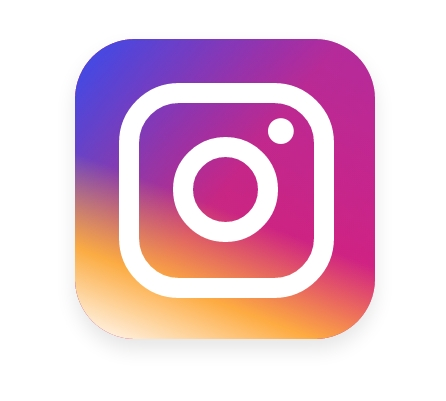
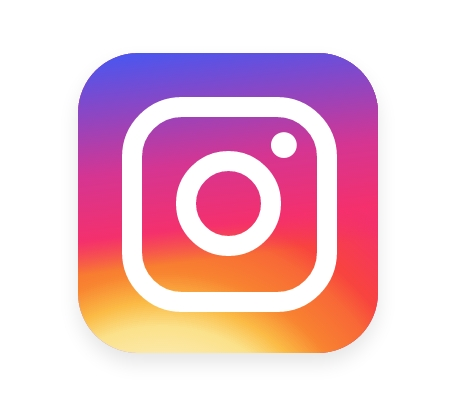
Fixes gradient

diff --git a/Designs/Instagram New Logo.html b/Designs/Instagram New Logo.html
@@ -2,6 +2,9 @@
   <head>
     <title>Instagram New Logo | Designs</title>
     <style>
+      /* 
+        Color Palette: https://dribbble.com/shots/2707735-New-Instagram-Logo-sketch
+      */
       #instagram-new{
         position: relative;
         margin: 0 auto;
@@ -9,7 +12,16 @@
         height: 300px;
         margin-top: 150px;
         border-radius: 60px;
-        background: linear-gradient(201deg, rgba(254, 116, 45, 0.05)55%, rgba(255, 177, 63, 0.96)78%, #FFFFFF) 76%,linear-gradient(128deg, rgb(42, 77, 249) , rgba(72, 61, 234, 0.29), rgba(136, 41, 199, 0.3)),linear-gradient(225deg, #D72188, #F91863, #FF3238);
+        background: -webkit-linear-gradient(-262.8749836510982deg, rgba(255,255,255,0) 0, rgba(244,48,109,0) 34%, #F4306D 44%, #D53592 63%, #4258F5 100%), -webkit-radial-gradient(28% 142%, circle farthest-corner, rgba(255,104,177,0.1) 0, #FFFFFF 9%, #FBE18A 32%, #FBBB45 37%, #F88330 43%, #F86737 52%, #F8443E 57%, #F4306D 70%, #D53592 85%, #4258F5 100%), -webkit-linear-gradient(-18.43494882292201deg, rgba(255,255,255,0.49) 0, rgba(255,255,255,0.49) 57%, #F4306D 82%, #D53592 100%), -webkit-linear-gradient(-228deg, rgba(255,255,255,0) 0, rgba(255,255,255,0) 1%, #903ACD 49%, #903ACD 77%, rgba(144,58,205,0) 100%);
+        background: -moz-linear-gradient(352.8749836510982deg, rgba(255,255,255,0) 0, rgba(244,48,109,0) 34%, #F4306D 44%, #D53592 63%, #4258F5 100%), -moz-radial-gradient(28% 142%, circle farthest-corner, rgba(255,104,177,0.1) 0, #FFFFFF 9%, #FBE18A 32%, #FBBB45 37%, #F88330 43%, #F86737 52%, #F8443E 57%, #F4306D 70%, #D53592 85%, #4258F5 100%), -moz-linear-gradient(108.43494882292201deg, rgba(255,255,255,0.49) 0, rgba(255,255,255,0.49) 57%, #F4306D 82%, #D53592 100%), -moz-linear-gradient(318deg, rgba(255,255,255,0) 0, rgba(255,255,255,0) 1%, #903ACD 49%, #903ACD 77%, rgba(144,58,205,0) 100%);
+        background: linear-gradient(352.8749836510982deg, rgba(255,255,255,0) 0, rgba(244,48,109,0) 34%, #F4306D 44%, #D53592 63%, #4258F5 100%), radial-gradient(circle farthest-corner at 28% 142%, rgba(255,104,177,0.1) 0, #FFFFFF 9%, #FBE18A 32%, #FBBB45 37%, #F88330 43%, #F86737 52%, #F8443E 57%, #F4306D 70%, #D53592 85%, #4258F5 100%), linear-gradient(108.43494882292201deg, rgba(255,255,255,0.49) 0, rgba(255,255,255,0.49) 57%, #F4306D 82%, #D53592 100%), linear-gradient(318deg, rgba(255,255,255,0) 0, rgba(255,255,255,0) 1%, #903ACD 49%, #903ACD 77%, rgba(144,58,205,0) 100%);
+        background-position: 50% 50%;
+        -webkit-background-origin: padding-box;
+        background-origin: padding-box;
+        -webkit-background-clip: border-box;
+        background-clip: border-box;
+        -webkit-background-size: auto auto;
+        background-size: auto auto;
         box-shadow: 0px 10px 30px #e5e5e5;
         transition: 0.5s;
       }
